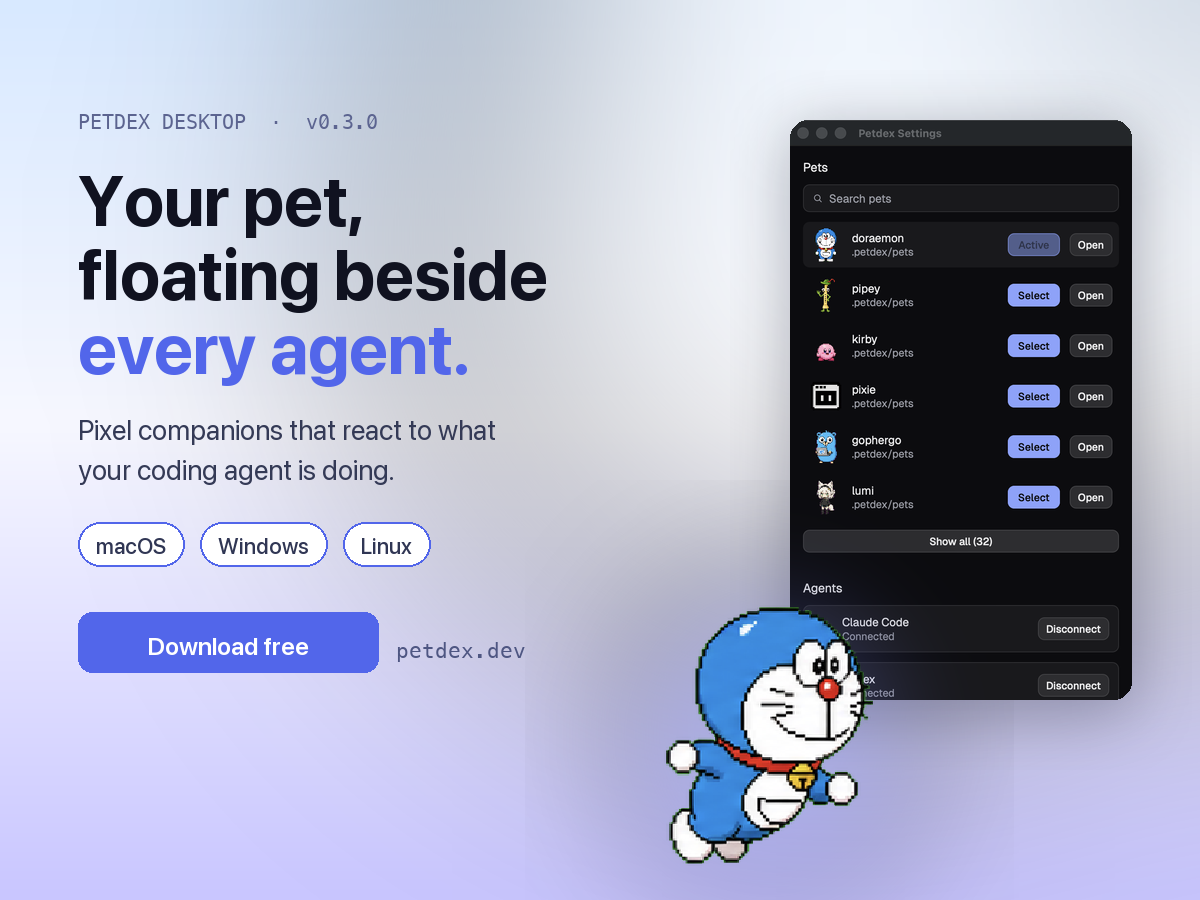
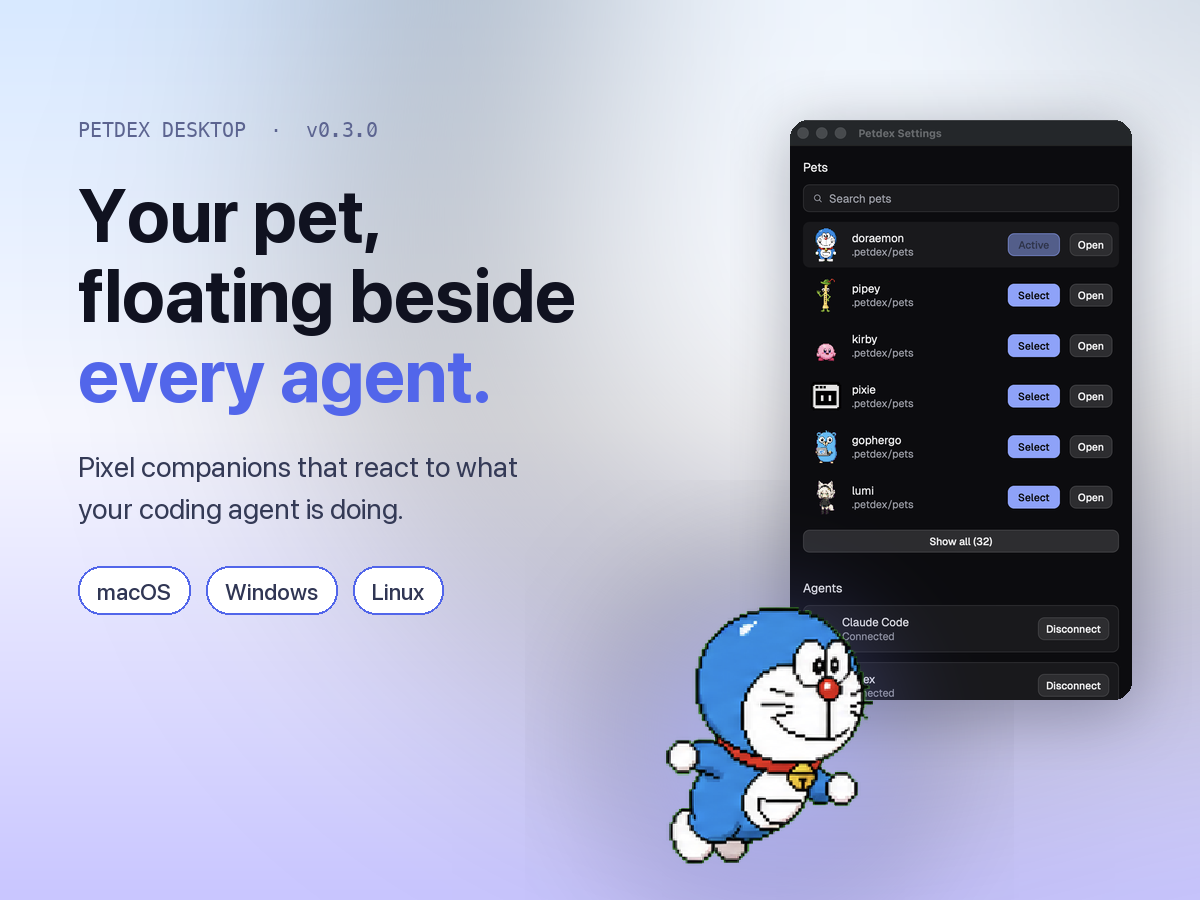
feat(download): a page that just downloads the app
The page opened with "TERMINAL-FIRST SETUP / Run one command" over a
terminal mockup, which sold the install path we moved off, and further
down listed Linux and Windows as "Coming soon" months after both
shipped. Someone arriving to get the app had to scroll past 2,400px of
narrative to find a button.

It is now the mark, one sentence, and one button for the visitor's own
OS, with the other two builds as plain links underneath. Everything the
button offers is a real published asset: all three resolve to
desktop-v0.3.0.

The CLI setup walkthrough and the platform-support table are gone
outright rather than rewritten. What remains is the hero, what the app
does, and a link to the docs: 5 sections down to 3, 2,414px down to
1,313.

Removing the duplicate CTA from the announcement image, since the modal
already carries a real Download button right beneath it and a painted
one that cannot be clicked is worse than no button at all.

Changed region(s): [[0.0617, 0.1867, 0.4933, 0.7467], [0.0617, 0.1244, 0.2158, 0.1556], [0.2467, 0.1244, 0.3083, 0.1556]]

diff --git a/src/app/[locale]/download/page.tsx b/src/app/[locale]/download/page.tsx
@@ -1,26 +1,12 @@
 import Image from "next/image";
 import Link from "next/link";
 
-import {
-  ArrowRight,
-  CheckCircle,
-  Clock,
-  Command,
-  MonitorSmartphone,
-  Pointer,
-  ShieldCheck,
-  Sparkles,
-  Zap,
-} from "lucide-react";
-import { getLocale, getMessages, getTranslations } from "next-intl/server";
+import { ArrowRight, MonitorSmartphone, Pointer, Zap } from "lucide-react";
+import { getLocale, type getMessages, getTranslations } from "next-intl/server";
 
 import { buildLocaleAlternates } from "@/lib/locale-routing";
-import { getPet } from "@/lib/pets";
 
-import {
-  DownloadHeroActions,
-  DownloadSetupSteps,
-} from "@/components/download/download-activation-islands";
+import { DownloadHero } from "@/components/download/download-hero";
 import { StaticPetSprite } from "@/components/pets/static-pet-sprite";
 import { SiteFooter } from "@/components/site-footer";
 import { SiteHeader } from "@/components/site-header";
@@ -28,8 +14,8 @@ import { SiteHeader } from "@/components/site-header";
 import { hasLocale } from "@/i18n/config";
 
 const SITE_URL = "https://petdex.dev";
-const DEFAULT_PREVIEW_PET_SLUG = "boba";
-const DEFAULT_PREVIEW_PET = {
+const _DEFAULT_PREVIEW_PET_SLUG = "boba";
+const _DEFAULT_PREVIEW_PET = {
   spritesheetPath: "https://assets.petdex.dev/curated/boba/spritesheet.webp",
 };
 
@@ -81,14 +67,6 @@ export const revalidate = 3600;
 export default async function DownloadPage() {
   const t = await getTranslations("download");
   const locale = await getLocale();
-  const setupTemplates = getDownloadSetupTemplates(await getMessages());
-  const resolvedPreviewPet = await getPet(DEFAULT_PREVIEW_PET_SLUG);
-  const previewPet = {
-    displayName: t("preview.defaultPet"),
-    spritesheetPath:
-      resolvedPreviewPet?.spritesheetPath ??
-      DEFAULT_PREVIEW_PET.spritesheetPath,
-  };
 
   const features = [
     {
@@ -108,95 +86,11 @@ export default async function DownloadPage() {
     },
   ];
 
-  const platforms = [
-    {
-      name: t("platforms.macos.name"),
-      detail: t("platforms.macos.detail"),
-      available: true,
-    },
-    {
-      name: t("platforms.linux.name"),
-      detail: t("platforms.linux.detail"),
-      available: false,
-    },
-    {
-      name: t("platforms.windows.name"),
-      detail: t("platforms.windows.detail"),
-      available: false,
-    },
-  ];
-
-  const activationItems = [
-    {
-      icon: Command,
-      label: t("activation.items.hooks"),
-    },
-    {
-      icon: ShieldCheck,
-      label: t("activation.items.desktop"),
-    },
-    {
-      icon: Sparkles,
-      label: t("activation.items.pet"),
-    },
-  ];
-
   return (
     <main className="relative min-h-dvh bg-background text-foreground">
       <SiteHeader />
 
-      <section className="mx-auto w-full max-w-[1440px] px-5 pt-10 pb-12 md:px-8 md:pt-16">
-        <div className="grid min-w-0 items-center gap-10 lg:grid-cols-[minmax(0,0.95fr)_minmax(420px,1fr)]">
-          <div className="min-w-0 max-w-2xl">
-            <p className="font-mono text-xs tracking-[0.22em] text-brand uppercase">
-              {t("eyebrow")}
-            </p>
-            <h1 className="mt-3 text-pretty text-[40px] leading-[0.98] font-semibold tracking-tight sm:text-[52px] md:text-[72px]">
-              {t("title")}
-            </h1>
-            <p className="mt-5 max-w-xl text-pretty text-base leading-7 text-muted-1 md:text-lg">
-              {t("subtitle")}
-            </p>
-
-            <DownloadHeroActions
-              labels={{
-                primaryLabel: t("hero.primaryTitle"),
-                cliSubtext: t("hero.cliSubtext"),
-                manualLabel: t("hero.manualLabel"),
-                manualSubtext: t("hero.manualSubtext"),
-                desktopOnlyLabel: t("hero.desktopOnly"),
-                pendingBefore: t("pendingPet.messageBefore"),
-                pendingAfter: t("pendingPet.messageAfter"),
-              }}
-            />
-
-            <div className="mt-5 grid gap-2 sm:grid-cols-3">
-              {activationItems.map((item) => {
-                const Icon = item.icon;
-                return (
-                  <div
-                    key={item.label}
-                    className="flex min-w-0 items-center gap-2 rounded-lg border border-border-base bg-surface px-3 py-2 text-sm text-muted-1"
-                  >
-                    <Icon className="size-4 shrink-0 text-brand" />
-                    <span className="truncate">{item.label}</span>
-                  </div>
-                );
-              })}
-            </div>
-          </div>
-
-          <DesktopActivationPreview
-            pendingLabel={null}
-            pendingPet={previewPet}
-            title={t("preview.title")}
-            status={t("preview.status")}
-            terminalLabel={t("preview.terminalLabel")}
-            agentLabel={t("preview.agentLabel")}
-            petLabel={t("preview.defaultPet")}
-          />
-        </div>
-      </section>
+      <DownloadHero />
 
       <section
         id="what-it-does"
@@ -235,72 +129,6 @@ export default async function DownloadPage() {
           })}
         </div>
       </section>
-
-      <section
-        id="how-it-works"
-        className="mx-auto w-full max-w-[1440px] px-5 py-16 md:px-8"
-      >
-        <div className="mx-auto max-w-2xl">
-          <p className="font-mono text-xs tracking-[0.22em] text-brand uppercase">
-            {t("setup.eyebrow")}
-          </p>
-          <h2 className="mt-3 text-3xl font-semibold tracking-tight md:text-4xl">
-            {t("setup.title")}
-          </h2>
-
-          <DownloadSetupSteps
-            labels={{
-              step1Title: t("setup.step1.title"),
-              step1Hint: t("setup.step1.hint"),
-              installPetTitle: setupTemplates.installPetTitle,
-              installPetHint: t("setup.installPet.hint"),
-              installPetsTitle: setupTemplates.installPetsTitle,
-              installPetsHint: t("setup.installPets.hint"),
-              stayUpdatedTitle: t("setup.stayUpdated.title"),
-              stayUpdatedHint: t("setup.stayUpdated.hint"),
-            }}
-          />
-        </div>
-      </section>
-
-      <section className="mx-auto w-full max-w-[1440px] px-5 py-16 md:px-8">
-        <div className="mx-auto max-w-2xl">
-          <p className="font-mono text-xs tracking-[0.22em] text-brand uppercase">
-            {t("platforms.eyebrow")}
-          </p>
-          <h2 className="mt-3 text-3xl font-semibold tracking-tight md:text-4xl">
-            {t("platforms.title")}
-          </h2>
-
-          <div className="mt-8 flex flex-col divide-y divide-border-base overflow-hidden rounded-2xl border border-border-base bg-surface">
-            {platforms.map((platform) => (
-              <div
-                key={platform.name}
-                className="flex items-center justify-between gap-4 px-5 py-4"
-              >
-                <div>
-                  <p className="font-medium text-foreground">{platform.name}</p>
-                  <p className="text-sm text-muted-3">{platform.detail}</p>
-                </div>
-                {platform.available ? (
-                  <span className="inline-flex items-center gap-1.5 rounded-full bg-emerald-500/10 px-3 py-1 text-xs font-medium text-emerald-600 ring-1 ring-emerald-500/20 dark:text-emerald-400">
-                    <CheckCircle className="size-3.5" />
-                    {t("platforms.available")}
-                  </span>
-                ) : (
-                  <span className="inline-flex items-center gap-1.5 rounded-full bg-surface-muted px-3 py-1 text-xs font-medium text-muted-3 ring-1 ring-border-base">
-                    <Clock className="size-3.5" />
-                    {t("platforms.comingSoon")}
-                  </span>
-                )}
-              </div>
-            ))}
-          </div>
-
-          <p className="mt-4 text-sm text-muted-3">{t("platforms.footer")}</p>
-        </div>
-      </section>
-
       <section className="mx-auto w-full max-w-[1440px] px-5 py-10 md:px-8">
         <div className="mx-auto max-w-2xl">
           <Link
@@ -318,7 +146,7 @@ export default async function DownloadPage() {
   );
 }
 
-function getDownloadSetupTemplates(
+function _getDownloadSetupTemplates(
   messages: Awaited<ReturnType<typeof getMessages>>,
 ) {
   return {
@@ -346,7 +174,7 @@ function getMessageString(messages: unknown, path: string[], fallback: string) {
   return typeof current === "string" ? current : fallback;
 }
 
-function DesktopActivationPreview({
+function _DesktopActivationPreview({
   pendingLabel,
   pendingPet,
   title,

diff --git a/src/components/download/download-hero.tsx b/src/components/download/download-hero.tsx
@@ -1,0 +1,114 @@
+"use client";
+
+import Image from "next/image";
+
+import { ArrowDownToLine } from "lucide-react";
+import { useTranslations } from "next-intl";
+
+import {
+  type MacArch,
+  type Platform,
+  useMacArch,
+  usePlatform,
+} from "@/lib/use-platform";
+
+const ASSET = {
+  "darwin-arm64": "/api/desktop/latest-release?asset=darwin-arm64",
+  "darwin-x64": "/api/desktop/latest-release?asset=darwin-x64",
+  "linux-x64": "/api/desktop/latest-release?asset=linux-x64",
+  "win32-x64": "/api/desktop/latest-release?asset=win32-x64",
+} as const;
+
+type Build = { key: keyof typeof ASSET; os: "macos" | "windows" | "linux" };
+
+const BUILDS: Build[] = [
+  { key: "darwin-arm64", os: "macos" },
+  { key: "win32-x64", os: "windows" },
+  { key: "linux-x64", os: "linux" },
+];
+
+function primaryBuild(platform: Platform, arch: MacArch): Build | null {
+  if (platform === "macos") {
+    return {
+      key: arch === "intel" ? "darwin-x64" : "darwin-arm64",
+      os: "macos",
+    };
+  }
+  if (platform === "windows") return { key: "win32-x64", os: "windows" };
+  if (platform === "linux") return { key: "linux-x64", os: "linux" };
+  return null;
+}
+
+/**
+ * The whole download page above the fold: mark, one sentence, one
+ * button for the visitor's own OS, and the other builds as quiet links.
+ *
+ * The page it replaces led with "Run one command" and a terminal
+ * mockup, which described an install path that is no longer the one we
+ * want people on. It also listed Linux and Windows as "coming soon"
+ * long after both shipped.
+ */
+export function DownloadHero() {
+  const t = useTranslations("downloadHero");
+  const platform = usePlatform();
+  const arch = useMacArch();
+  const primary = primaryBuild(platform, arch);
+  const others = BUILDS.filter((b) => b.os !== primary?.os);
+
+  return (
+    <section className="mx-auto flex w-full max-w-xl flex-col items-center px-5 pt-16 pb-20 text-center md:pt-24">
+      <Image
+        src="/brand/petdex-desktop-icon.png"
+        alt=""
+        width={112}
+        height={112}
+        priority
+        className="size-24 md:size-28"
+      />
+
+      <h1 className="mt-7 text-pretty text-[38px] leading-[1.05] font-semibold tracking-tight md:text-[52px]">
+        {t("title")}
+      </h1>
+      <p className="mt-4 text-pretty text-base leading-7 text-muted-1 md:text-lg">
+        {t("subtitle")}
+      </p>
+
+      <div className="mt-9 flex min-h-11 w-full flex-col items-center gap-4">
+        {/* Platform detection lands after hydration. Reserving the row
+            keeps the layout from jumping once it resolves. */}
+        {primary ? (
+          <>
+            <a
+              href={ASSET[primary.key]}
+              rel="noreferrer"
+              className="inline-flex h-12 items-center justify-center gap-2 rounded-xl bg-brand px-7 text-[15px] font-semibold text-white transition hover:bg-brand-deep"
+            >
+              <ArrowDownToLine className="size-[18px]" />
+              {t(`for.${primary.os}`)}
+            </a>
+            <p className="font-mono text-xs text-muted-3">{t("freeNote")}</p>
+          </>
+        ) : platform === "unknown" || platform === "other" ? (
+          <span className="h-12 w-56 animate-pulse rounded-xl bg-surface-muted" />
+        ) : (
+          // Phones and tablets: no build can run here, so the download
+          // row becomes the honest sentence instead of a dead button.
+          <p className="text-sm text-muted-2">{t("desktopOnly")}</p>
+        )}
+
+        <div className="flex flex-wrap items-center justify-center gap-x-5 gap-y-2 text-sm text-muted-2">
+          {others.map((b) => (
+            <a
+              key={b.key}
+              href={ASSET[b.key]}
+              rel="noreferrer"
+              className="underline decoration-border-strong underline-offset-4 transition hover:text-foreground"
+            >
+              {t(`for.${b.os}`)}
+            </a>
+          ))}
+        </div>
+      </div>
+    </section>
+  );
+}

diff --git a/src/i18n/client-messages.ts b/src/i18n/client-messages.ts
@@ -22,6 +22,7 @@ export const CLIENT_MESSAGE_PATHS = [
   "onboarding",
   "openInCodex",
   "desktopAnnounce",
+  "downloadHero",
   "openInPetdex",
   "ownerCollections",
   "petActions",
